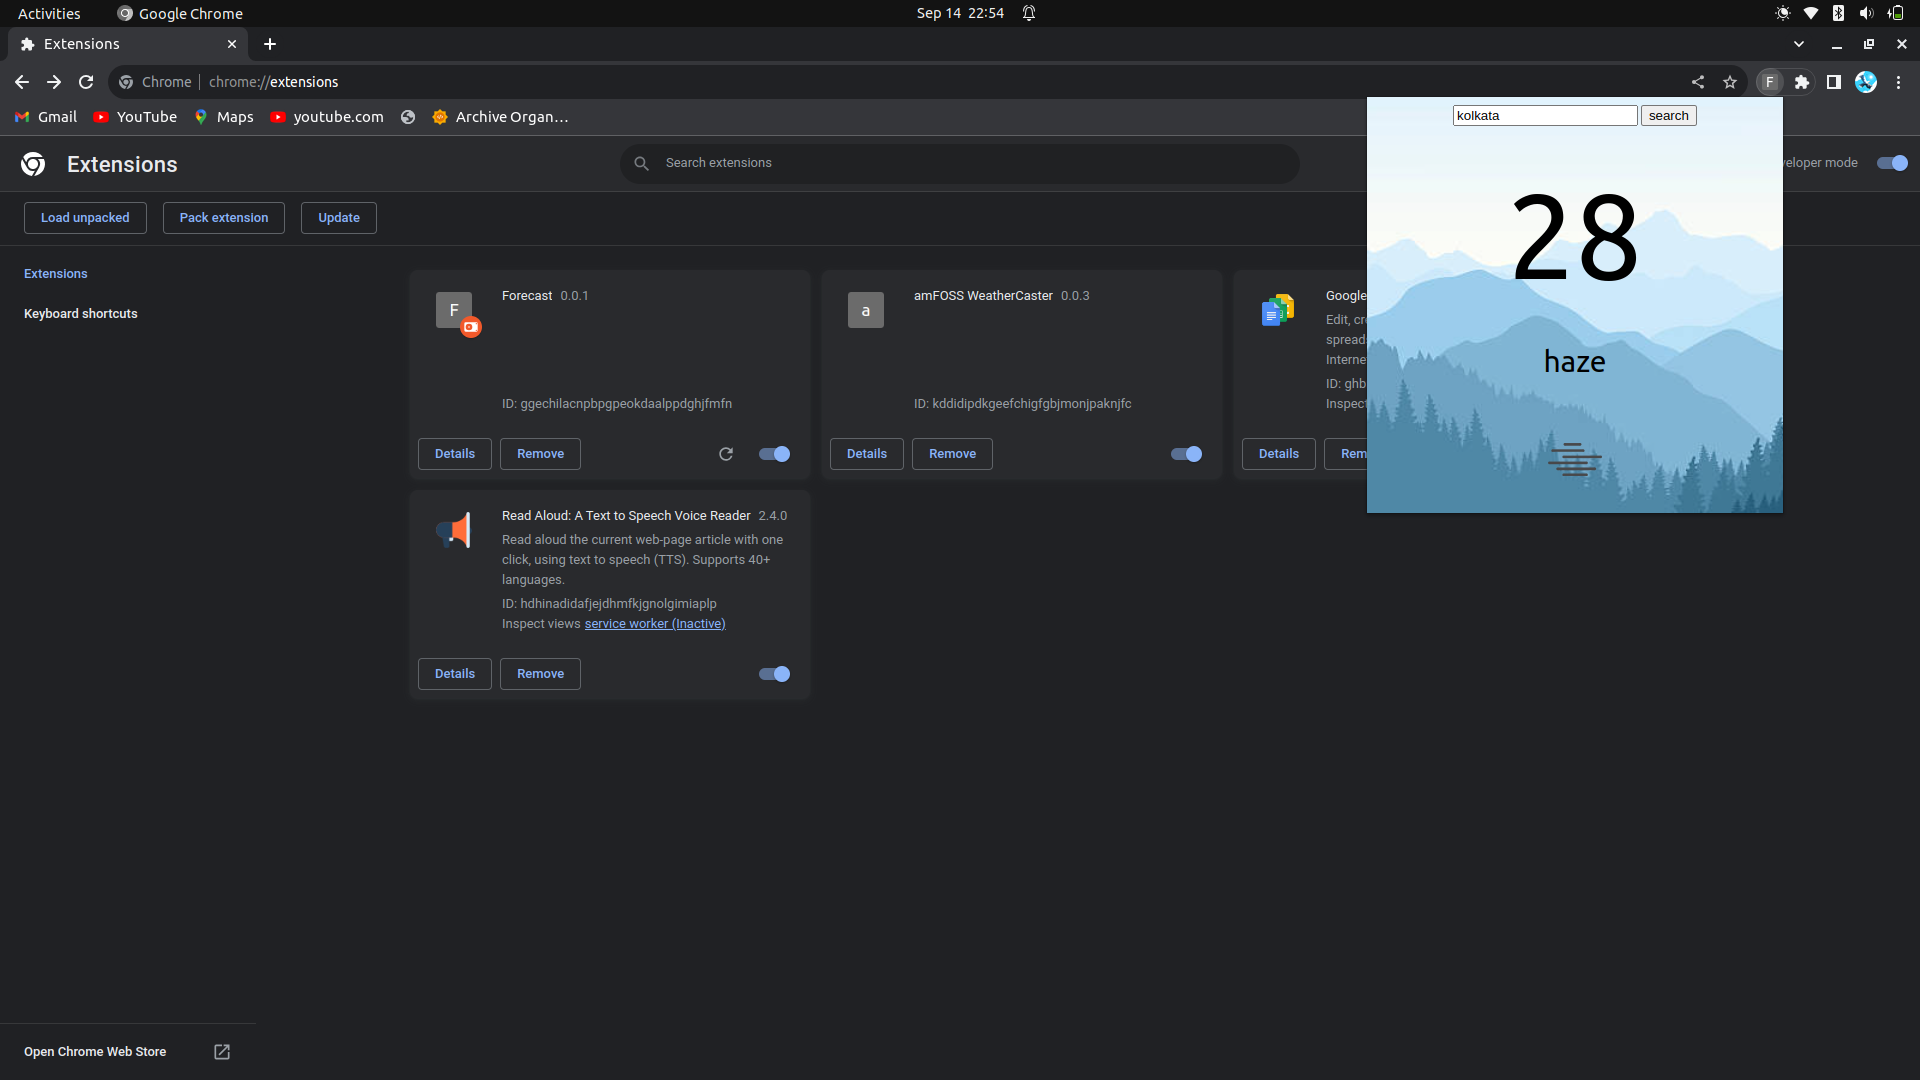
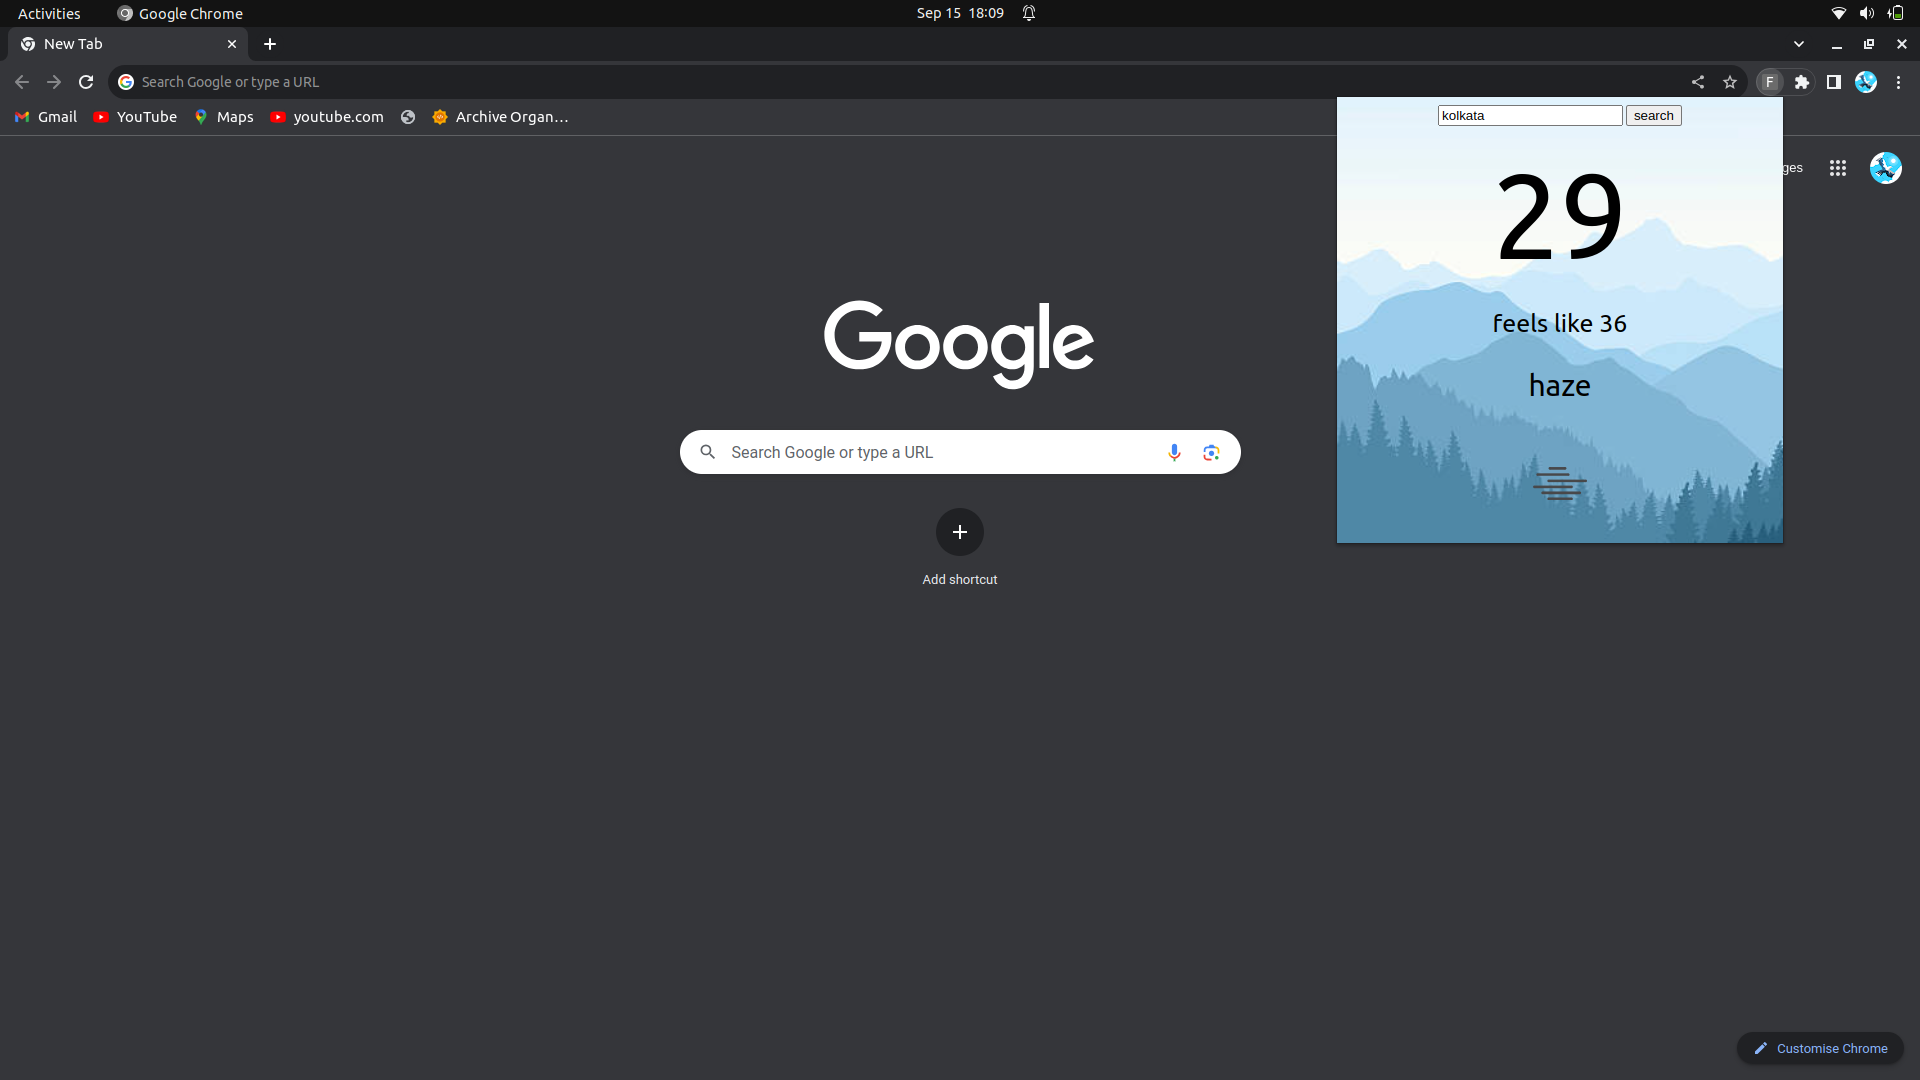
minor updates

diff --git a/task_07/fetch.js b/task_07/fetch.js
@@ -1,6 +1,8 @@
 let place_name = document.getElementById("city")
 let button = document.getElementById("search")
 
+
+
 button.addEventListener("click",async () =>{
 
 let place = place_name.value;
@@ -32,8 +34,10 @@ p.then((response)=>{
     .then((got)=> {console.log(got.weather[0].description)
         let tem = got.main.temp -273.15
         let desc = got.weather[0].description
-        document.getElementById("tem").innerText = Math.round(tem)
+        document.getElementById("tem").innerText = Math.round(tem) 
         document.getElementById("desc").innerText = desc
+        let feel = got.main.feels_like
+        document.getElementById("feel").innerText = `feels like ${Math.round(feel - 273.15)}`
         console.log(got)
         let imageObjectUrl = `https://openweathermap.org/img/wn/${got.weather[0].icon}@2x.png`
         document.getElementById("show").src = imageObjectUrl

diff --git a/task_07/style.css b/task_07/style.css
@@ -1,6 +1,6 @@
 body {
-    width:400px;
-    height:400px;
+    width:430px;
+    height:430px;
     background-image: url(assests/mount.jpg);
     background-size: cover;
 }
@@ -8,12 +8,17 @@ body {
     text-align: center;
 }
 #tem {
-    margin-top: 40px;
-    margin-bottom: 40px;
+    margin-top: 20px;
+    margin-bottom: 20px;
     font-size: 120px;
 }
 #desc {
     font-size: 30px;
-    margin-top: 40px;
+    margin-top: 30px;
+}
+.temperature {
+    text-align: center;
+}
+#feel { font-size: 25px;
 }
 

diff --git a/task_07/popup.html b/task_07/popup.html
@@ -14,6 +14,7 @@
         <div  class = "temperature">
             
             <p id = "tem"> </p>
+            <p id = "feel"> </p>
 
             <p id = "desc"> </p>
             <img id = "show" >
